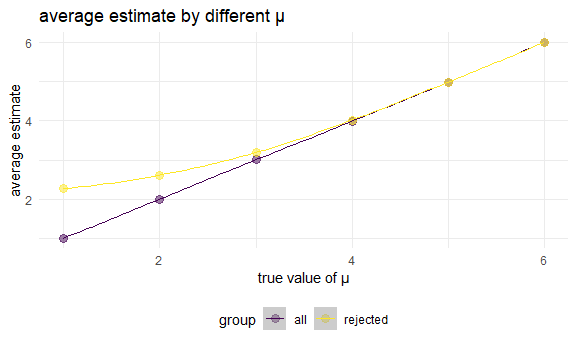
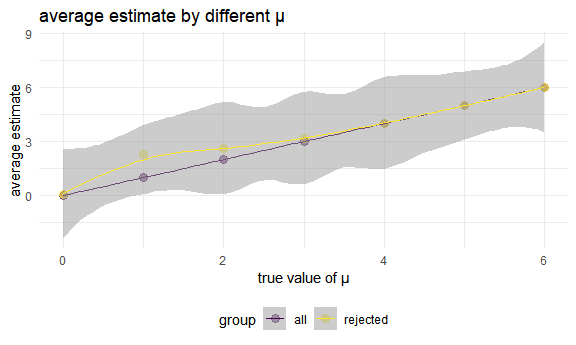
Change some descriptions and correct plots.

diff --git a/p8105_hw5_cy2588.md b/p8105_hw5_cy2588.md
@@ -311,10 +311,10 @@ for (i in 1:5000) {
   output[[i]] = sim_t(mu = 0)
 }
 
-sim_results = bind_rows(output)
+sim_results_0 = bind_rows(output)
 ```
 
-Repeat for mu = 1,2,3,4,5,6
+Repeat for mu = 1,2,3,4,5,6 and combine with mu = 0
 
 ``` r
 set.seed(1)
@@ -333,7 +333,7 @@ for (i in 1:6) {
   output_set[[i]] = sim(mu = i)
 }
 
-sim_total = bind_rows(output_set)
+sim_total = bind_rows(output_set,sim_results_0)
 ```
 
 make plot of the power
@@ -390,13 +390,21 @@ p3_plot_data = bind_rows(mean_data, rej_mean_data)
 
 According to the plot, we could find that the sample average of μ\_hat
 for which the null is rejected approximately equal to the true value of
-μ when the true value of μ is greater than 3.  
+μ when the true value of μ is greater than 3. And when true value of μ
+is equal to our null hypothesis, the sample average of μ^ across tests
+for which the null is rejected also approximately equal to the true
+value.  
 Because when the effect size of μ increased, the power of ttest
 increased, so the probability of rejecting the null hypothesis when it
-is false increased, and the sample average of μ^ will close to the true
-value. But when the power of test is relatively lower, some tests for
-which the null is false will fail to reject and cause the sample average
-of μ^ deviate from the true values.  
+is false increased, and the sample average of μ^ across rejected sample
+will close to the true value. But when the power of test is relatively
+lower, some tests for which sample mean relatively close to 0 but null
+is false will fail to reject and cause the sample average of μ^ deviate
+from the true values.  
+When true value of μ equal to 0, which is same as the null hypothesis,
+we tend to fail to reject the null, and those sample average of μ\_hat
+for which the null is rejected are average of those extrem value around
+the true value, would be close to the true value.  
 (Here sample average of μ^ is greater than true value because for those
 tests we fail to reject the null, their sample mean is relatively
 smaller(closer to 0), so the sample average of μ^ across tests for which
